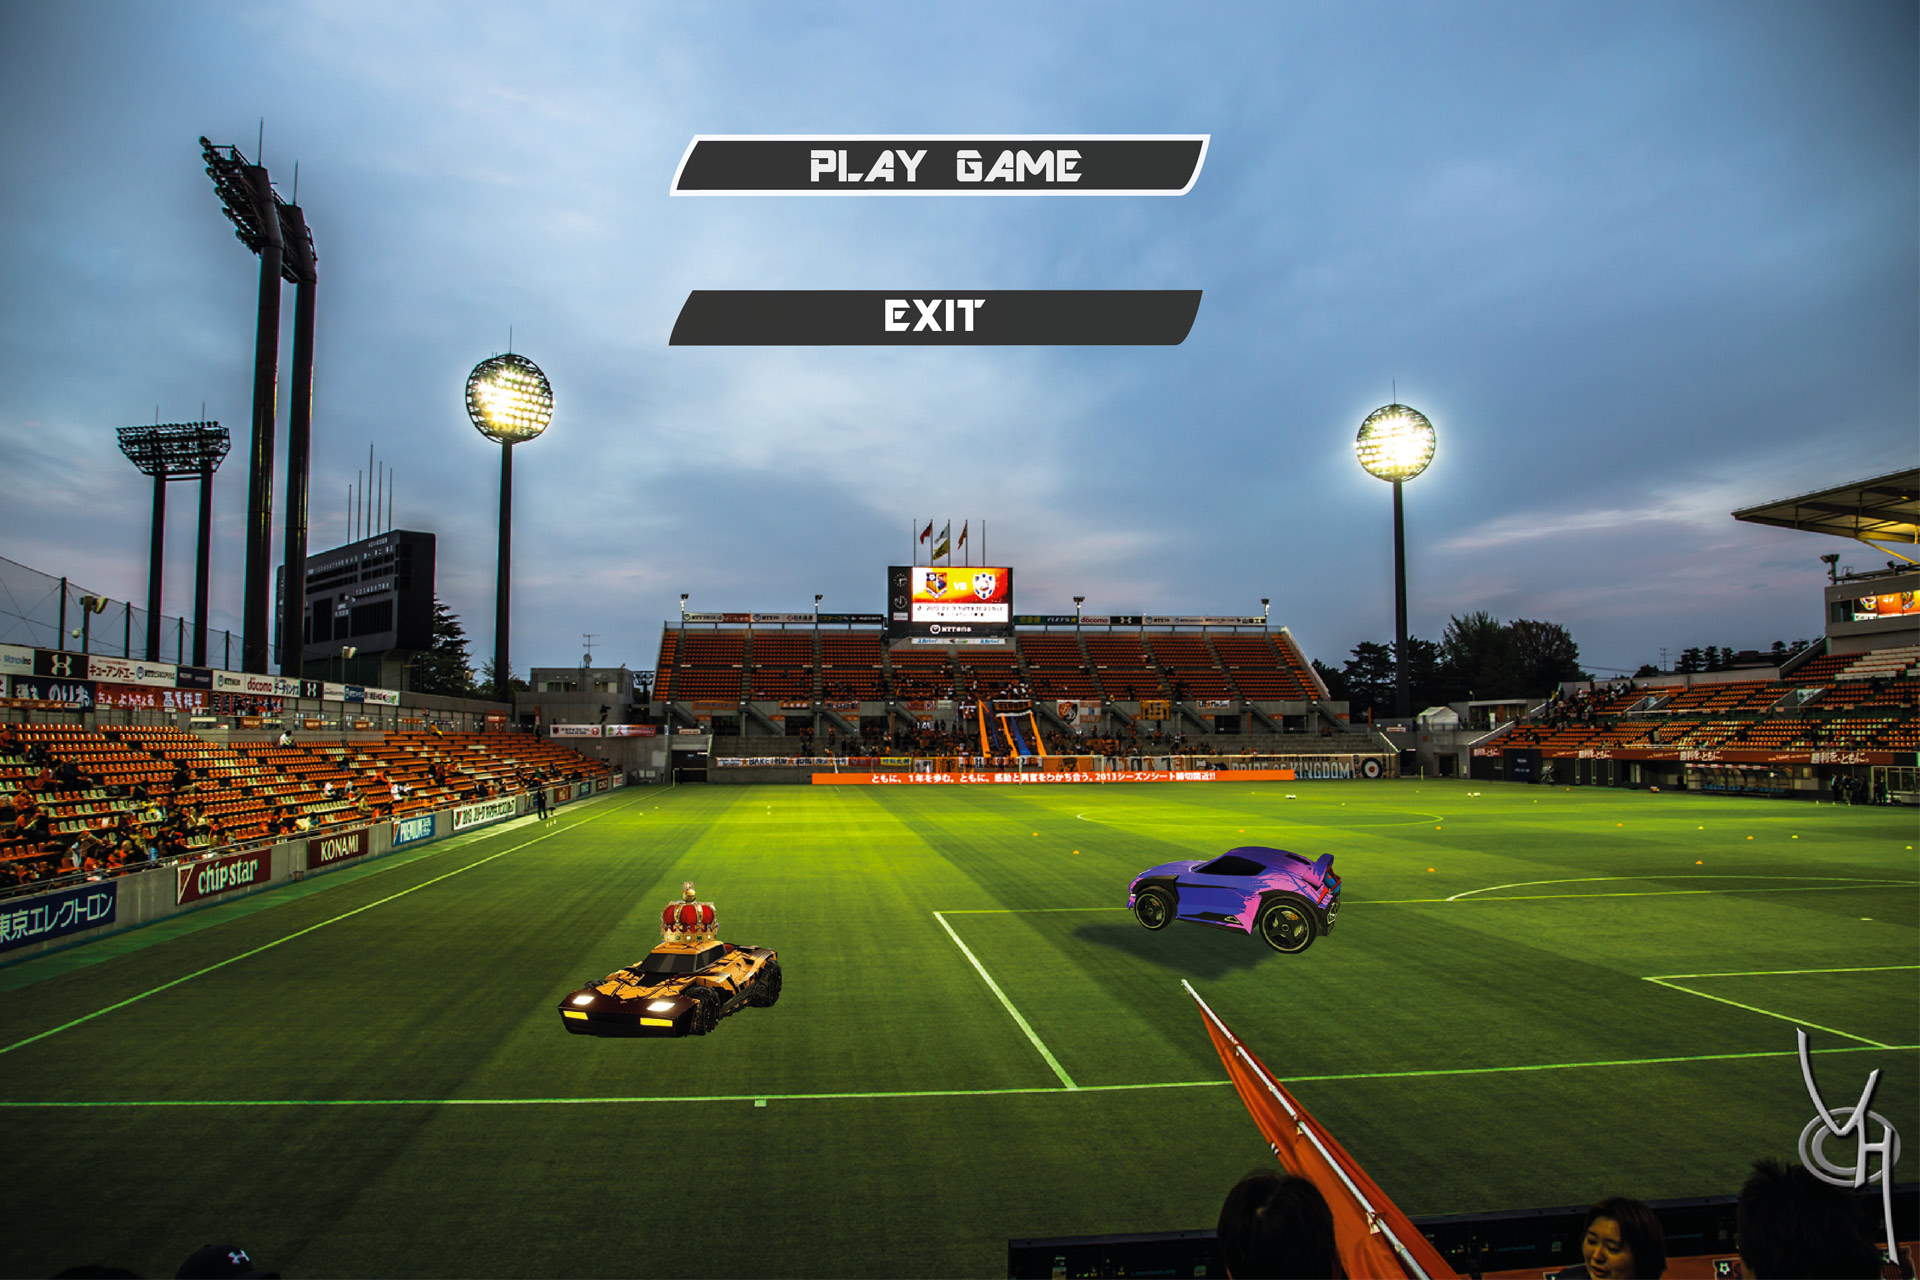
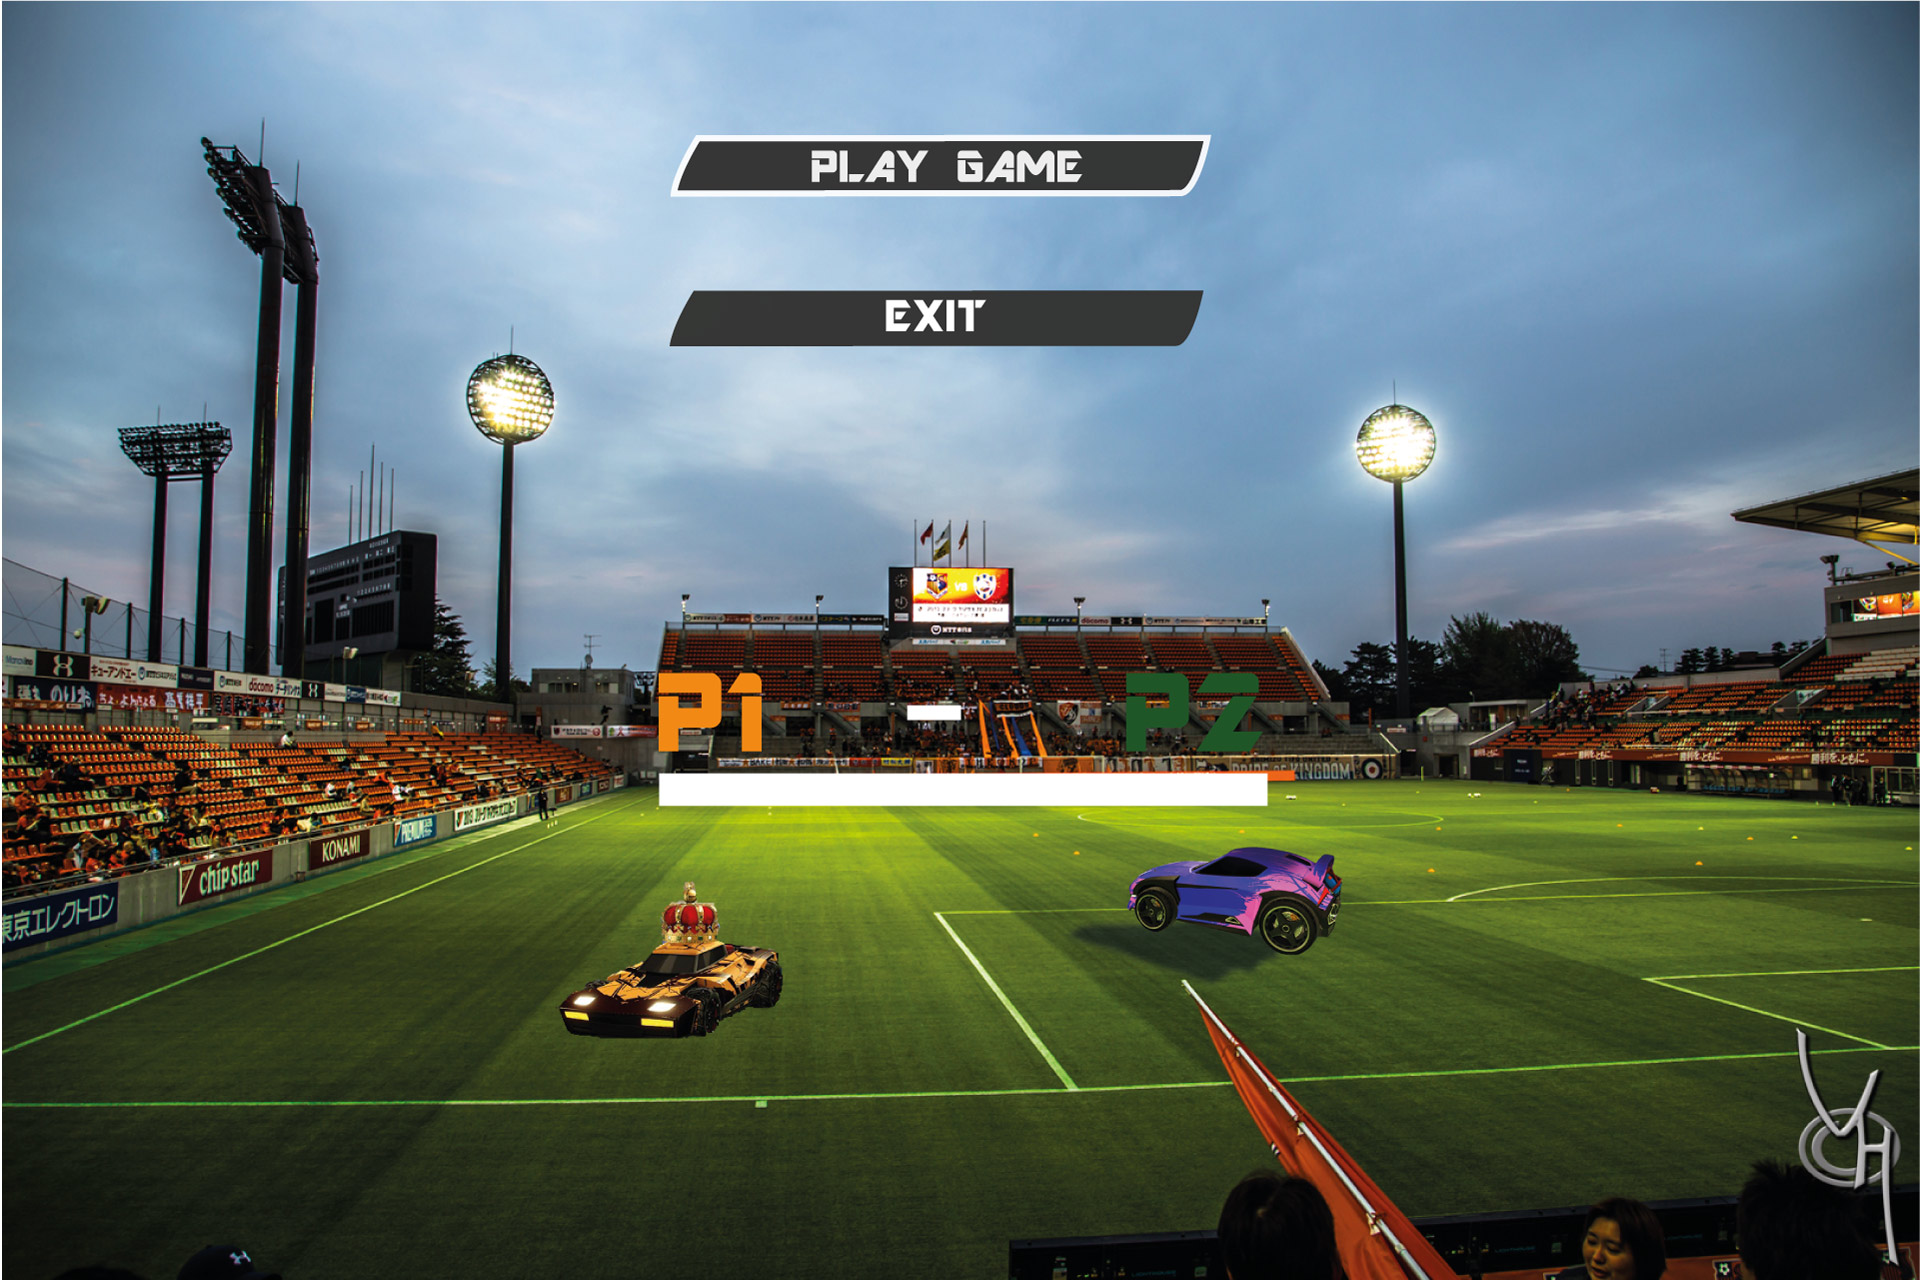
rajout score fin

diff --git a/src/Menu.c b/src/Menu.c
@@ -52,8 +52,7 @@ bool MakeMenu(int width, int height, Menu* menu, TypeMenu type) {
 	case debut:
 		/* Initialisation de la SDL */
 		if (-1 == SDL_Init(SDL_INIT_VIDEO)) {
-			fprintf(stderr,
-					"Impossible d'initialiser la SDL. Fin du programme.\n");
+			fprintf(stderr,"Impossible d'initialiser la SDL. Fin du programme.\n");
 			return false;
 		}
 		/* Ouverture d'une fenêtre et création d'un contexte OpenGL */
@@ -104,7 +103,27 @@ bool InitGameMenu(Menu* m, int duration) {
 	return true;
 }
 
-void DessinMenu(Menu* menu, GLuint texture) {
+void AfficheScoreMenu(int score1, int score2) {
+	char scoreP1[2];
+	sprintf(scoreP1, "%d", score1);
+	char scoreP2[2];
+	sprintf(scoreP2, "%d", score2);
+	glPushMatrix();
+	glScalef(1.,1.,0.);
+		glTranslatef(-10, -52, 0);
+		glColor3f(0.98, 0.33, 0.13);
+		vBitmapOutput(-2, 45, scoreP1, GLUT_BITMAP_TIMES_ROMAN_24);
+		glColor3f(1, 1, 1);
+	glPopMatrix();
+	glPushMatrix();
+		glTranslatef(7,-52, 0);
+		glColor3f(0.24, 0.51, 0.41);
+		vBitmapOutput(-2, 45, scoreP2, GLUT_BITMAP_TIMES_ROMAN_24);
+		glColor3f(1, 1, 1);
+	glPopMatrix();
+}
+
+void DessinMenu(Menu* menu, GLuint texture, int scoreP1, int scoreP2) {
 	glPushMatrix();
 	glEnable(GL_TEXTURE_2D);
 	//glColor3f(255, 255, 255);
@@ -123,21 +142,10 @@ void DessinMenu(Menu* menu, GLuint texture) {
 	glEnd();
 	glBindTexture(GL_TEXTURE_2D, 0);
 	glDisable(GL_TEXTURE_2D);
-	glPopMatrix();
-}
 
-void AfficheScore(int score1, int score2) {
-	char scoreP1[2];
-	sprintf(scoreP1, "%d", score1);
-	char scoreP2[2];
-	sprintf(scoreP2, "%d", score2);
-	glPushMatrix();
-	glTranslatef(-10, 0, 0);
-	glColor3d(1, 1, 1);
-	vBitmapOutput(-2, 45, scoreP1, GLUT_BITMAP_HELVETICA_18);
-	glTranslatef(10, 0, 0);
-	glColor3d(1, 1, 1);
-	vBitmapOutput(-2, 45, scoreP2, GLUT_BITMAP_HELVETICA_18);
+	if(menu->type == fin)
+		AfficheScoreMenu(scoreP1, scoreP2);
+
 	glPopMatrix();
 }
 
@@ -163,7 +171,7 @@ bool IsOnButton1(int x, int y) {
 // 			&& y <= 409);
 // }
 
-bool LoopMenu(Menu* menu){
+bool LoopMenu(Menu* menu, int scoreP1, int scoreP2) {
 
 	GLuint texture = menu->texture;
 
@@ -176,7 +184,7 @@ bool LoopMenu(Menu* menu){
 		/* Récupération du temps au début de la boucle */
 		Uint32 startTime = SDL_GetTicks();
 
-		DessinMenu(menu, texture);
+		DessinMenu(menu, texture, scoreP1, scoreP2);
 
 		/* glBegin(GL_QUADS);
 		 glColor3f(0.,1.,0.);
@@ -298,7 +306,7 @@ void CallMenuDemarrage(Menu* menu) {
 	Mix_VolumeMusic(0);
 
 
-	LoopMenu(menu);
+	LoopMenu(menu,0,0);
 
 	Mix_FreeMusic(musique);
 	Mix_CloseAudio();
@@ -308,11 +316,11 @@ void CallMenuDemarrage(Menu* menu) {
 }
 
 bool CallMenuPause(Menu* menu) {
-	return LoopMenu(menu);
+	return LoopMenu(menu,0,0);
 }
 
-bool CallMenuFin(Menu* menu) {
-	return LoopMenu(menu);
+bool CallMenuFin(Menu* menu, int scoreP1, int scoreP2) {
+	return LoopMenu(menu,scoreP1,scoreP2);
 }
 
 void FreeMenu(Menu* m) {

diff --git a/include/Menu.h b/include/Menu.h
@@ -22,7 +22,7 @@
 
 
 typedef	struct {
-	Game* game;
+    Game* game;
 	int largeur;
 	int hauteur;
 	TypeMenu type;
@@ -34,12 +34,13 @@ typedef	struct {
 }Menu;
 
 bool MakeMenu(int width, int height, Menu* menu, TypeMenu type);
-void DessinMenu(Menu* menu, GLuint text);
+void DessinMenu(Menu* menu, GLuint text,int scoreP1, int scoreP2);
 void CallMenuDemarrage(Menu* menu);
 bool CallMenuPause(Menu* menu);
-bool CallMenuFin(Menu* menu);
+bool CallMenuFin(Menu* menu, int scoreP1, int scoreP2);
 void FreeMenu(Menu* m);
 bool InitGameMenu(Menu* m, int duration);
+void AfficheScoreMenu(int score1, int score2);
 
 
 #endif

diff --git a/src/Game.c b/src/Game.c
@@ -63,7 +63,7 @@ bool PlayGame(Game* game, int windowWidth, int windowHeight){
     	if(thisIsTheEnd){
 			Menu menuFin;
 			MakeMenu(windowWidth, windowHeight, &menuFin, fin);
-			if(!CallMenuFin(&menuFin))
+			if(!CallMenuFin(&menuFin, game->levels[i]->scoreP1, game->levels[i]->scoreP2))
 				return false;
         }
     }
